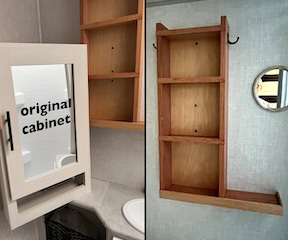
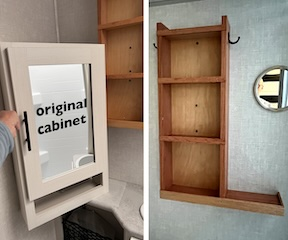
Add files via upload

diff --git a/about_millie/about_millie.html b/about_millie/about_millie.html
@@ -83,6 +83,7 @@ document.write('<img SRC=' + rand_num + '.jpg>');
 
 
 
+
               Millie</b><br>
             <br>
             Millie is a 2021 R•Pod, RP190. We bought her new and towed
@@ -130,6 +131,7 @@ document.write('<img SRC=' + rand_num + '.jpg>');
 
 
 
+
               Plan</b><br>
             <br>
             Millie's floor plan includes a queen-size bed (RV short
@@ -153,6 +155,7 @@ document.write('<img SRC=' + rand_num + '.jpg>');
       <tbody>
         <tr>
           <td width="70%" valign="middle" align="left" height="100%"><b>Weights
+
 
 
 
@@ -225,6 +228,7 @@ document.write('<img SRC=' + rand_num + '.jpg>');
 
 
 
+
               Capacities and Associated Weights</b><b><br>
             </b><br>
             Millie's fresh water, gray water, and black water tanks are
@@ -273,6 +277,7 @@ document.write('<img SRC=' + rand_num + '.jpg>');
       <tbody>
         <tr>
           <td width="70%" valign="middle" align="left" height="100%">Other
+
 
 
 
@@ -379,8 +384,8 @@ document.write('<img SRC=' + rand_num + '.jpg>');
             bathroom door.<br>
             <br>
             <br>
-            images: hooks on the outside of the bathroom door (left) and
-            on the inside of the bathroom door (right)<br>
+            images: hooks on the outside of the bathroom door (upper
+            right) and on the inside of the bathroom door (lower left)<br>
           </td>
           <td width="30%" valign="middle" align="center" height="100%"><img
               src="bath_door_hooks.jpg" alt="" width="288" height="240"><br>
@@ -509,6 +514,7 @@ document.write('<img SRC=' + rand_num + '.jpg>');
           </td>
           <td width="30%" valign="middle" align="center" height="100%">NEED
 
+
             PHOTO<br>
           </td>
         </tr>
@@ -590,6 +596,7 @@ document.write('<img SRC=' + rand_num + '.jpg>');
 
 
 
+
               Power</b><br>
             <br>
             Storage of Millie's electrical power has evolved from a
@@ -637,6 +644,7 @@ document.write('<img SRC=' + rand_num + '.jpg>');
         <tr>
           <td width="75%" valign="middle" align="left" height="100%">Related
 
+
             to power, we also replaced the original 30A inlet (L5-30R)
             with a SmartPlug.<br>
           </td>
@@ -671,6 +679,7 @@ document.write('<img SRC=' + rand_num + '.jpg>');
       <tbody>
         <tr>
           <td width="100%" valign="middle" align="left" height="100%"><b>Towing
+
 
 
 
@@ -799,6 +808,7 @@ document.write('<img SRC=' + rand_num + '.jpg>');
 
 
 
+
             weights indicate that the WDH redistributes 100 lbs from the
             truck's drive axle to its steer axle (40 lbs) and to the
             trailer's axle (60 lbs), that the trailer's GVW is 3,780 lbs
@@ -857,6 +867,7 @@ document.write('<img SRC=' + rand_num + '.jpg>');
       <tbody>
         <tr>
           <td width="100%" valign="middle" align="left" height="100%"><b>Camping
+
 
 
 
